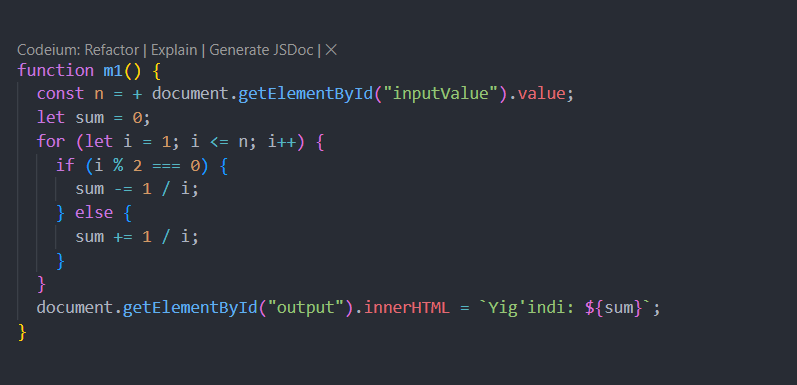
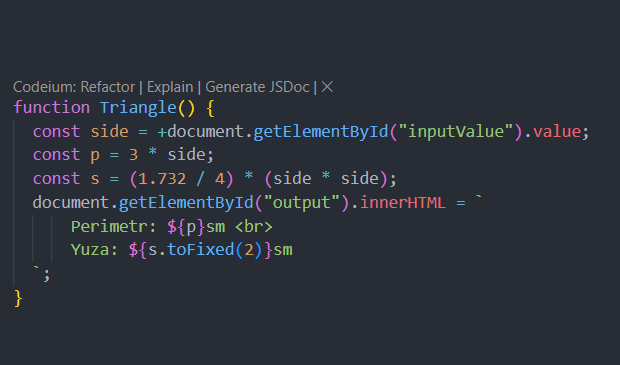
Done

diff --git a/index.html b/index.html
@@ -58,8 +58,12 @@
             perimetri va yuzini hisoblovchi dastur tuzilsin.
           </h2>
           <br />
-          <input id="inputValue" type="number" placeholder="N ni kiriting" />
-          <button class="button-85" role="button" onclick="m1()">
+          <input
+            id="inputValue"
+            type="number"
+            placeholder="Tominini kiriting (sm)"
+          />
+          <button class="button-85" role="button" onclick="Triangle()">
             Hisoblash
           </button>
           <div class="output" id="output"><p>Output</p></div>
@@ -77,7 +81,7 @@
       </section>
       <section id="second">
         <div id="content">
-          <h2>
+          <h2 class="limited-line">
             <span>FunSimple7. </span>Butun musbat sonning raqamlarini teskari
             tartibda chiqaruvchi InvertDigit nomli funksiyaga hosil qiling. Bu
             funksiya orqali a, b, c sonlarining raqamlari teskari tartibda
@@ -85,12 +89,24 @@
           </h2>
           <br />
           <input
-            id="inputValue2-1"
+            id="numA"
             class="first-input"
             type="number"
-            placeholder="Birinchi son"
+            placeholder="a soni"
           />
-          <button class="button-85" role="button" onclick="m2()">
+          <input
+            id="numB"
+            class="first-input"
+            type="number"
+            placeholder="b soni"
+          />
+          <input
+            id="numC"
+            class="first-input"
+            type="number"
+            placeholder="b soni"
+          />
+          <button class="button-85" role="button" onclick="InvertDigit()">
             Hisoblash
           </button>
           <div class="output" id="output2"><p>Output</p></div>
@@ -115,13 +131,18 @@
             yig’indisini hisoblovchi dastur tuzilsin.
           </h2>
           <br />
-          <input id="inputValue33" type="number" placeholder="x kiriting" />
 
-          <button class="button-85" role="button" onclick="m3()">
+          <input id="A" type="number" placeholder="A ni kiriting" />
+          <input id="B" type="number" placeholder="A ni kiriting" />
+          <input id="C" type="number" placeholder="A ni kiriting" />
+
+          <button class="button-85" role="button" onclick="DigitCountSum()">
             Hisoblash
           </button>
 
-          <div class="output" id="output3"><p>Output</p></div>
+          <div class="output" style="font-size: 16px" id="output3">
+            <p>Output</p>
+          </div>
         </div>
         <img
           class="code"
@@ -134,7 +155,7 @@
           alt=""
         />
       </section>
-      <section id="fourth">
+      <!-- <section id="fourth">
         <div id="content">
           <h2 class="limited-line">
             <span>FunSimple17. </span> Kvadrat tenglamaning ildizlar sonini
@@ -160,10 +181,10 @@
           src="./images/Screenshot_4.png"
           alt=""
         />
-      </section>
+      </section> -->
       <section id="fivth">
         <div id="content">
-          <h2>
+          <h2 class="limited-line">
             <span>FunSimple24.</span>
             Butun sonning juft-toqligini aniqlovchi Even(K) funksiyasini hosil
             qiling. Funksiya K juft son bo’lsa - true, aks holda false qiymat
@@ -171,7 +192,9 @@
             aniqlansin.
           </h2>
           <br />
-          <input id="inputValue5-1" type="number" placeholder="n" />
+          <input id="num1" type="number" placeholder="1 - son" />
+          <input id="num2" type="number" placeholder="2 - son" />
+          <input id="num3" type="number" placeholder="3 - son" />
 
           <button class="button-85" role="button" onclick="m5()">
             Hisoblash
@@ -191,7 +214,7 @@
       </section>
       <section id="sixth">
         <div id="content">
-          <h2>
+          <h2 class="limited-line">
             <span>FunSimple27.</span>
             IsPowerN(K, N) mantiqiy funksiyasini hosil qiling. (K > 0). Agar K
             soni N sonining biror darajasi bo’lsa – true, aks holda false qiymat
@@ -199,13 +222,25 @@
             ekanini aniqlovchi dastur tuzilsin.
           </h2>
           <br />
-          <input id="inputValue5-1" type="number" placeholder="n" />
 
-          <button class="button-85" role="button" onclick="m5()">
+          <input id="n" type="number" placeholder="N" />
+          <input id="k1" type="number" placeholder="1 - son" />
+          <input id="k2" type="number" placeholder="2 - son" />
+          <input id="k3" type="number" placeholder="3 - son" />
+          <input id="k4" type="number" placeholder="4 - son" />
+          <input id="k5" type="number" placeholder="5 - son" />
+
+          <button class="button-85" role="button" onclick="IsPowerN()">
             Hisoblash
           </button>
-          <div class="output" id="output5"><p>Output</p></div>
+
+          <!-- Natija ko'rsatiladigan joy -->
+          <div class="output" id="output6">
+            <p>Output</p>
+          </div>
         </div>
+
+        <!-- Rasm -->
         <img
           class="code"
           style="
@@ -213,26 +248,30 @@
             border-radius: 10px;
             box-shadow: 0 0 10px rgba(0, 0, 0, 0.5);
           "
-          src="./images/Screenshot_5.png"
+          src="./images/Screenshot_6.png"
           alt=""
         />
       </section>
-      <section id="seventh" style="margin-bottom: 100px;">
+
+      <section id="seventh" style="margin-bottom: 100px">
         <div id="content">
-          <h2>
+          <h2 class="limited-line">
             <span>FunSimple51.</span>
-            IsPowerN(K, N) mantiqiy funksiyasini hosil qiling. (K > 0). Agar K
-            soni N sonining biror darajasi bo’lsa – true, aks holda false qiymat
-            qaytarsin. Shu funksiya orqali 5 ta sondan nech tasi N ning darajasi
-            ekanini aniqlovchi dastur tuzilsin.
+            IncTime(H, M, S, T) funksiyasini hosil qiling. Funksiya berilgan H –
+            soat, M – minut, S – sekundni, T sekundga oshirsin. Funksiya orqali
+            berilgan soat, minut va sekundni T sekundga oshiruvchi dastur
+            tuzilsin.
           </h2>
           <br />
-          <input id="inputValue5-1" type="number" placeholder="n" />
+          <input id="H" type="number" placeholder="H ni kiriting" />
+          <input id="M" type="number" placeholder="M ni kiriting" />
+          <input id="S" type="number" placeholder="S ni kiriting" />
+          <input id="T" type="number" placeholder="Qanch sekund o`shirilsin" />
 
-          <button class="button-85" role="button" onclick="m5()">
+          <button class="button-85" role="button" onclick="IncTime()">
             Hisoblash
           </button>
-          <div class="output" id="output5"><p>Output</p></div>
+          <div class="output" id="output7"><p>Output</p></div>
         </div>
         <img
           class="code"
@@ -241,12 +280,11 @@
             border-radius: 10px;
             box-shadow: 0 0 10px rgba(0, 0, 0, 0.5);
           "
-          src="./images/Screenshot_5.png"
+          src="./images/Screenshot_7.png"
           alt=""
         />
       </section>
     </div>
-
     <footer>
       <div class="logo">
         <img style="width: 40px" src="./icons/javascript-logo-0.png" alt="" />
@@ -266,7 +304,6 @@
     <button id="backToTopBtn">
       <i><i class="fa-solid fa-arrow-up"></i></i>
     </button>
-
     <script src="app.js"></script>
   </body>
 </html>

diff --git a/app.js b/app.js
@@ -1,77 +1,117 @@
-
-
-function m1() {
-  const n = + document.getElementById("inputValue").value;
-  let sum = 0;
-  for (let i = 1; i <= n; i++) {
-    if (i % 2 === 0) {
-      sum -= 1 / i;
-    } else {
-      sum += 1 / i;
+function Triangle() {
+  const side = +document.getElementById("inputValue").value;
+  const p = 3 * side;
+  const s = (1.732 / 4) * (side * side);
+  document.getElementById("output").innerHTML = `
+      Perimetr: ${p}sm <br>
+      Yuza: ${s.toFixed(2)}sm^2
+  `;
+}
+function InvertDigit() {
+  const a = +document.getElementById("numA").value;
+  const b = +document.getElementById("numB").value;
+  const c = +document.getElementById("numC").value;
+  const reverse = (n) => {
+    return parseInt(n.toString().split("").reverse().join(""));
+  }
+  document.getElementById(
+    "output2"
+  ).innerHTML = `Teskari raqamla: <br> a = ${reverse(a)}, b = ${reverse(b)}, c = ${reverse(c)}`;
+}
+function DigitCountSum() {
+  const a = +document.getElementById("A").value;
+  const b = +document.getElementById("B").value;
+  const c = +document.getElementById("C").value;
+  const count = (n) => {
+    return n.toString().length;
+  };
+  const calculateSum = (n) => {
+    const str = n.toString();
+    let sum = 0;
+    for (let i = 0; i < str.length; i++) {
+      sum += parseInt(str[i]);
     }
-  }
-  document.getElementById("output").innerHTML = `Yig'indi: ${sum}`;
-}
-
-function m2() {
-  const n = +document.getElementById("inputValue2-1").value;
-  let sum = 0;
-  let fact = 1;
-
-  for (let i = 1; i <= n; i++) {
-    fact *= i;
-    sum += fact;
-  }
-
-  document.getElementById("output2").innerHTML = `Faktoriyalar soni: ${sum}`;
-}
-
-function m3() {
-  const n = +document.getElementById("inputValue33").value;
-  let k = 0;
-  while ((k + 1) ** 2 <= n) {
-    k++;
-  }
+    return sum;
+  };
   document.getElementById(
     "output3"
-  ).innerHTML = `Kvadrati ${n} dan katta bo'lmagan eng katta k soni: ${k}`;
+  ).innerHTML = `A soni: Raqamlar soni - ${count(
+    a
+  )}, <br> Raqamlar yig'indisi - ${calculateSum(a)}.<br> 
+  B soni: Raqamlar soni - ${count(
+    b
+  )}, <br> Raqamlar yig'indisi - ${calculateSum(b)}.<br> 
+  C soni: Raqamlar soni - ${count(
+    c
+  )}, <br> Raqamlar yig'indisi - ${calculateSum(c)}.`;
 }
-
-function m4() {
-  const n = +document.getElementById("inputValue4").value;
-  let k = 1;
-
-  while (k ** 2 <= n) {
-    k++;
-  }
-  document.getElementById(
-    "output4"
-  ).innerHTML = `Kvadrati ${n} dan katta bo'lgan eng kichik k soni: ${k}`;
-}
-
 function m5() {
-  const n = +document.getElementById("inputValue5-1").value;
-  let count = 0;
-  for (let i = 1; i <= n; i += 2) {
-    count++;
+  const num1 = +document.getElementById("num1").value;
+  const num2 = +document.getElementById("num2").value;
+  const num3 = +document.getElementById("num3").value;
+  const even = (K) => {
+    if (K % 2 === 0) {
+      return true;
+    } else {
+      return false;
+    }
+  };
+  document.getElementById("output5").innerHTML = `1 - son: ${even(num1)} <br>
+                 2 - son: ${even(num2)} <br>
+                 3 - son: ${even(num3)}`;
+}
+function IsPowerN() {
+  const n = +document.getElementById("n").value;
+  const k1 = +document.getElementById("k1").value;
+  const k2 = +document.getElementById("k2").value;
+  const k3 = +document.getElementById("k3").value;
+  const k4 = +document.getElementById("k4").value;
+  const k5 = +document.getElementById("k5").value;
+  let result = 0;
+  const check = (k, n) => {
+    while (k > 1) {
+      if (k % n !== 0) {
+        return false;
+      }
+      k = k / n;
+    }
+    return k === 1;
+  };
+  const K = [k1, k2, k3, k4, k5];
+  for (let i = 0; i < K.length; i++) {
+    if (check(K[i], n)) {
+      result++;
+    }
   }
   document.getElementById(
-    "output5"
-  ).innerHTML = `${n} gacha bo'lgan toq sonlar soni: ${count} ta`;
+    "output6"
+  ).innerHTML = `Ning darajasi bo'lgan sonlar soni: ${result}`;
 }
 
+function IncTime() {
+  const h = +document.getElementById("H").value;
+  const m = +document.getElementById("M").value;
+  const s = +document.getElementById("S").value;
+  const t = +document.getElementById("T").value;
+  let totalS = s + t;
+  let tS = totalS % 60;
+  let totalM = m + Math.floor(totalS / 60);
+  let tM = totalM % 60;
+  let tH = h + Math.floor(totalM / 60);
+  document.getElementById("output7").innerHTML = `
+  ${t} sekund qo'shilganidan keyin: <br>
+  ${tH} soat ${tM} minut ${tS} sekund.`;
+}
 // SOME FUNCTION -=-=-=-=-=-=-=-=-=-=-=-=-=-=-=-=-=-=-=-=-=-=-=-=-=-=-=-=-=-=-=-=-=-
 
 const moonIcon = document.querySelector(".moon-icon");
 const body = document.body;
-
 if (!localStorage.getItem("mode")) {
   localStorage.setItem("mode", "dark");
   body.classList.add("dark");
 } else {
   body.classList.add(localStorage.getItem("mode"));
 }
-
 moonIcon.addEventListener("click", () => {
   if (body.classList.contains("dark")) {
     body.classList.remove("dark");

diff --git a/style.css b/style.css
@@ -158,7 +158,7 @@ footer {
   backdrop-filter: blur(420px);
   background-color: var(--secondary-bg-color);
   z-index: 1000;
-  z-index: 1000;
+  position: relative;
   box-shadow: 0 0 10px rgba(0, 0, 0, 0.3);
 }
 .logo {
